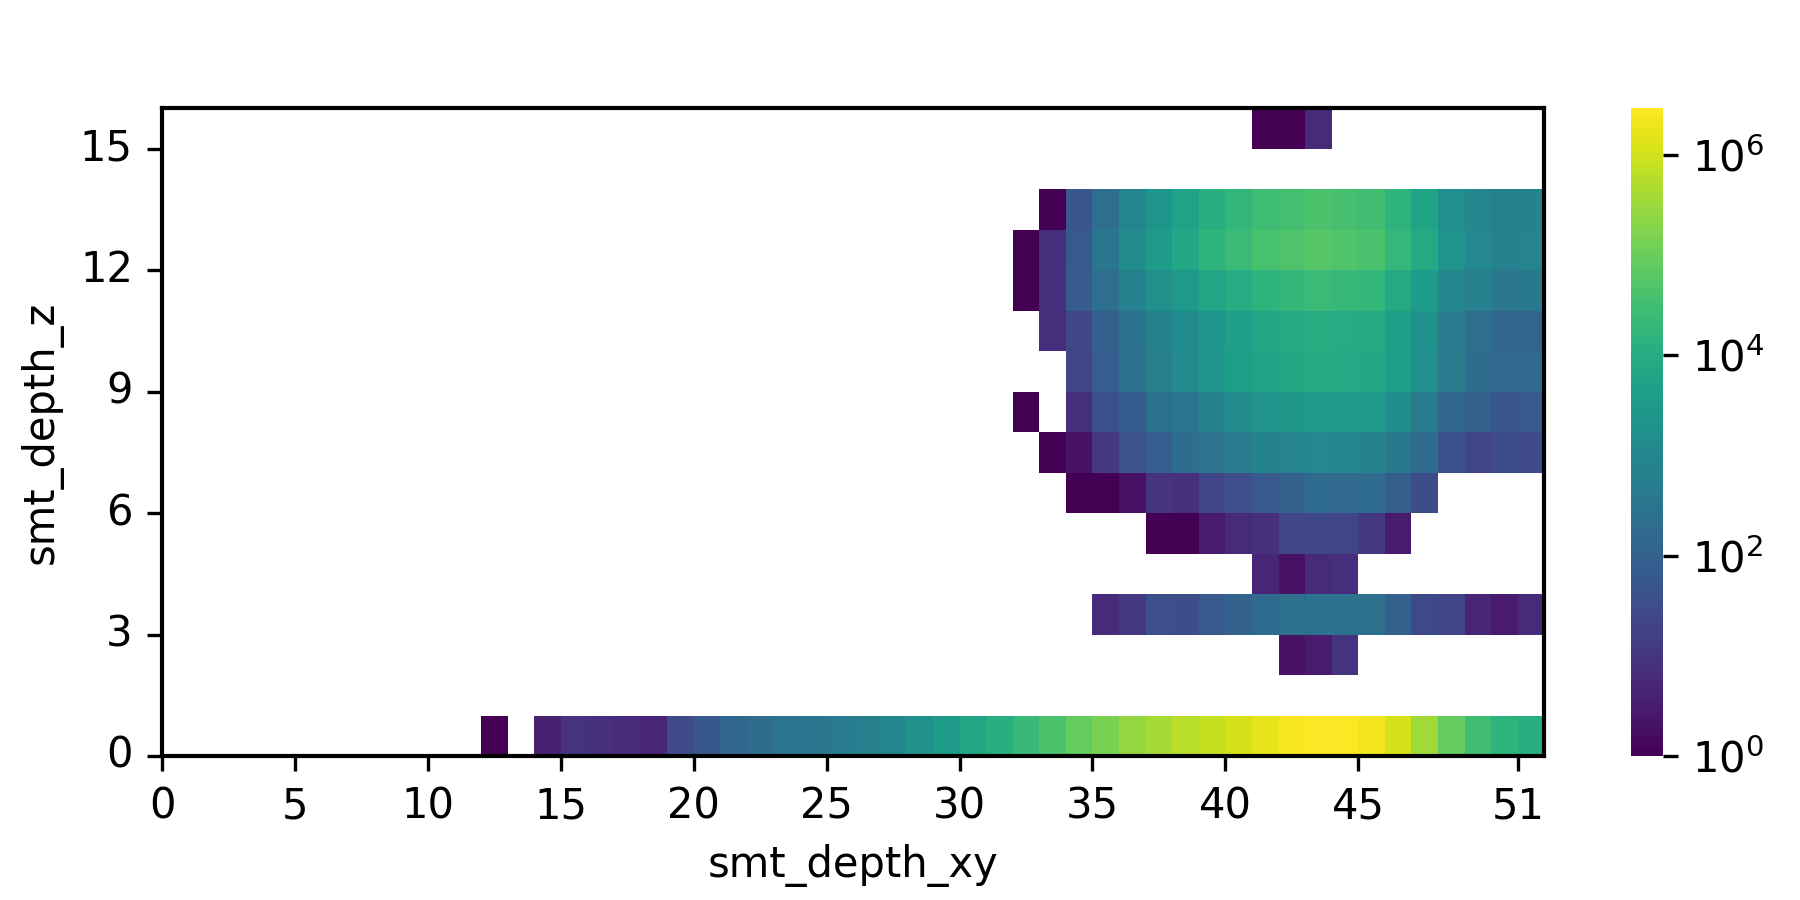
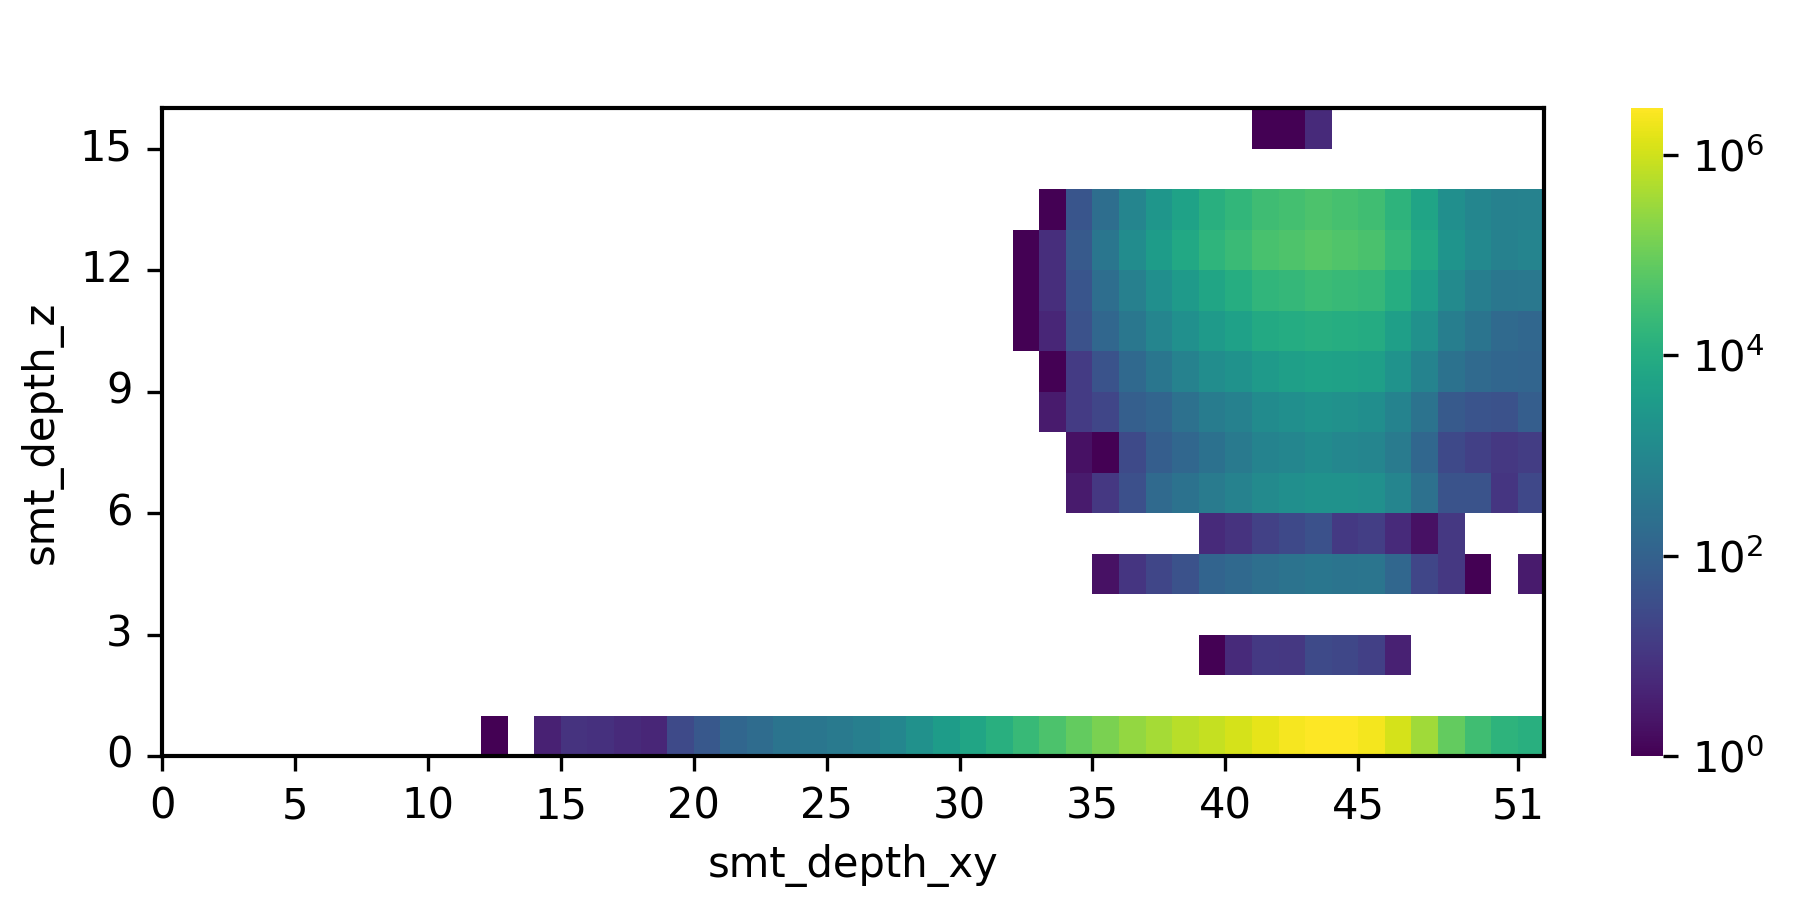
add altitude distribution plots

Changed region(s): [[0.56, 0.3422, 0.8711, 0.7778]]

diff --git a/cmd/db-address-exporter/db-address-exporter.go b/cmd/db-address-exporter/db-address-exporter.go
@@ -20,14 +20,15 @@ import (
 )
 
 const (
-	F_GROW                   = 0.1
-	CERTIFICATE_WRITE_BUFFER = 1000
-	NODE_WRITE_BUFFER        = 1000
-	SAMPLE_WRITE_BUFFER      = 1000
-	MAX_FILE_SIZE            = 300 * 1000 * 1000 // 300 MB
-	MAX_CERTIFICATE_SIZE     = 3091              // ≈ 3kB
-	INSERT_INTO_NODES_STR    = "INSERT INTO nodes(bit_string_51,bit_string_15,xy_left_child_hash,xy_right_child_hash,z_left_child_hash,z_right_child_hash,certificate_hashes) VALUES\n"
-	INSERT_INTO_CERTS_STR    = "INSERT INTO certificates(certificate_hash,certificate,not_valid_after) VALUES\n"
+	F_GROW                             = 0.1
+	CERTIFICATE_WRITE_BUFFER           = 1000
+	NODE_WRITE_BUFFER                  = 1000
+	SAMPLE_WRITE_BUFFER                = 1000
+	ALTITUDE_DISTRIBUTION_WRITE_BUFFER = 1000
+	MAX_FILE_SIZE                      = 300 * 1000 * 1000 // 300 MB
+	MAX_CERTIFICATE_SIZE               = 3091              // ≈ 3kB
+	INSERT_INTO_NODES_STR              = "INSERT INTO nodes(bit_string_51,bit_string_15,xy_left_child_hash,xy_right_child_hash,z_left_child_hash,z_right_child_hash,certificate_hashes) VALUES\n"
+	INSERT_INTO_CERTS_STR              = "INSERT INTO certificates(certificate_hash,certificate,not_valid_after) VALUES\n"
 )
 
 type Coordinate struct {
@@ -547,16 +548,58 @@ func sampleWriter(
 	done <- true
 }
 
+func surfaceAltitudeWriter(
+	fileName string,
+	surfaceAltitudes chan *float64,
+	done chan bool,
+) {
+	file, err := os.Create(fileName)
+	if err != nil {
+		log.Fatalf("failed opening file %s: %v", fileName, err)
+	}
+
+	_, err = file.Write(
+		[]byte("altitude\n"),
+	)
+	if err != nil {
+		log.Fatalf("failed writing header to %s: %v", fileName, err)
+	}
+
+	for surfaceAltitude := range surfaceAltitudes {
+		// write certificate row
+		_, err := file.Write(
+			[]byte(
+				fmt.Sprintf(
+					"%f\n",
+					*surfaceAltitude,
+				),
+			),
+		)
+		if err != nil {
+			log.Fatalf("failed writing to file %s: %v", fileName, err)
+		}
+	}
+
+	err = file.Close()
+	if err != nil {
+		log.Fatalf("failed closing file %s: %v", fileName, err)
+	}
+
+	done <- true
+}
+
 func main() {
 	var inputPath string
 	var nodesOutputPath string
 	var certificatesOutputPath string
 	var sampleOutputPath string
+	var surfaceAltitudeOutputPath string
 
 	flag.StringVar(&inputPath, "input", "", "The path to the input .parquet file")
 	flag.StringVar(&nodesOutputPath, "nodes", "", "The path to the nodes output directory")
 	flag.StringVar(&certificatesOutputPath, "certs", "", "The path to certificates output directory")
 	flag.StringVar(&sampleOutputPath, "sampling-map", "", "The path to the sampling-map file")
+	flag.StringVar(&surfaceAltitudeOutputPath, "altitude-dist", "", "The path to the altitude distribution file")
 	flag.Parse()
 
 	if inputPath == "" {
@@ -573,6 +616,10 @@ func main() {
 
 	if sampleOutputPath == "" {
 		log.Fatalf("'sample-map' flag must be set")
+	}
+
+	if surfaceAltitudeOutputPath == "" {
+		log.Fatalf("'altitude-dist' flag must be set")
 	}
 
 	fileReader, err := local.NewLocalFileReader(inputPath)
@@ -609,6 +656,16 @@ func main() {
 		samplesFinishedWriting,
 	)
 
+	// setup channels for concurrently writing the surface altitude distribution to disk
+	altitudes := make(chan *float64, ALTITUDE_DISTRIBUTION_WRITE_BUFFER)
+	altitudeFinishedWriting := make(chan bool)
+	// start writer routine
+	go surfaceAltitudeWriter(
+		surfaceAltitudeOutputPath,
+		altitudes,
+		altitudeFinishedWriting,
+	)
+
 	bitstringPairToNode := make(map[bitstring.RawBitStringPair]*crypto.Node)
 
 	for i := 0; i < num; i++ {
@@ -635,6 +692,10 @@ func main() {
 		// get some coordinate of the mulitpolygon
 		coordinate := (*(*(*r.List_of_multipolygons)[0])[0])[0]
 		samples <- coordinate
+
+		if r.Surface_altitude_aster_30 != nil {
+			altitudes <- r.Surface_altitude_aster_30
+		}
 
 		bitstringPairs, err := geometry.CertificateToBitStrings(certificate, F_GROW)
 		if err != nil {
@@ -709,8 +770,9 @@ func main() {
 		progressBar.Add(1)
 	}
 	// tell writers that they have all data
-	close(samples)
 	close(certificates)
+	close(samples)
+	close(altitudes)
 	progressBar.Exit()
 
 	// compute child hashes
@@ -781,6 +843,10 @@ func main() {
 
 	fmt.Printf("Waiting until all samples are written to disk..\n")
 	<-samplesFinishedWriting
+	fmt.Printf("Done!\n")
+
+	fmt.Printf("Waiting until all altitude values are written to disk..\n")
+	<-altitudeFinishedWriting
 	fmt.Printf("Done!\n")
 
 	fmt.Printf("Waiting until all certificates are written to disk..\n")

diff --git a/database/measurements/plot.py b/database/measurements/plot.py
@@ -84,7 +84,7 @@ df.sort_values(
 )
 
 
-def cdf(column):
+def get_stats_df(column):
     # https://stackoverflow.com/a/54317197
     s = pd.Series(column.values, name='value')
 
@@ -99,7 +99,12 @@ def cdf(column):
     # CDF
     stats_df['cdf'] = stats_df['pdf'].cumsum()
     stats_df = stats_df.reset_index()
-    cdf = stats_df['cdf'].values
+
+    return stats_df
+
+
+def plot_cdf(column, quantile=True):
+    stats_df = get_stats_df(column)
 
     p = plt.plot(
         stats_df['value'],
@@ -107,29 +112,42 @@ def cdf(column):
     )
     color = p[0].get_color()
 
-    ninety_five_row = stats_df[stats_df['cdf'] >= 0.95].iloc[0]
-    ninety_five_p = ninety_five_row['cdf']
-    ninety_five = ninety_five_row['value']
+    if quantile:
 
-    plt.scatter(
-        [ninety_five],
-        [ninety_five_p],
-        marker="o",
-        facecolors='none',
-        edgecolors=color
+        ninety_five_row = stats_df[stats_df['cdf'] >= 0.95].iloc[0]
+        ninety_five_p = ninety_five_row['cdf']
+        ninety_five = ninety_five_row['value']
+
+        plt.scatter(
+            [ninety_five],
+            [ninety_five_p],
+            marker="o",
+            facecolors='none',
+            edgecolors=color
+        )
+
+        plt.text(
+            ninety_five * 0.98,
+            0.85,
+            # f'({ninety_five}, {ninety_five_p.round(2)})',
+            f'{int(ninety_five) if ninety_five.is_integer() else ninety_five.round(4)}',
+            rotation=0,
+            color=color
+        )
+
+
+def plot_pdf(column):
+    stats_df = get_stats_df(column)
+
+    p = plt.scatter(
+        stats_df['value'],
+        stats_df['pdf'],
+        s=1,
+        marker="x",
     )
 
-    plt.text(
-        ninety_five * 0.98,
-        0.85,
-        # f'({ninety_five}, {ninety_five_p.round(2)})',
-        f'{int(ninety_five) if ninety_five.is_integer() else ninety_five.round(4)}',
-        rotation=0,
-        color=color
-    )
 
-
-cdf(df['smt_depth'])
+plot_cdf(df['smt_depth'])
 plt.savefig(f"{CURRENT_DIR}/depth.png")
 plt.close()
 
@@ -195,4 +213,49 @@ for _, spine in ax.spines.items():
 
 
 plt.savefig(f"{CURRENT_DIR}/leaves.png")
+plt.close()
+
+
+df = pd.read_csv(os.path.join(CURRENT_DIR, "altitude.csv"))
+
+df['altitude'] = df['altitude']
+df['altitude'] = df['altitude'].round(0).astype(int)
+
+fig, ax = plt.subplots(figsize=(6, 3), dpi=300)
+fig.subplots_adjust(bottom=0.16, left=0.06, right=0.99)
+
+plot_cdf(df['altitude'], quantile=False)
+
+ylimits = ax.get_ylim()
+
+ax.vlines(
+    x=[264],
+    ymin=ylimits[0],
+    ymax=ylimits[1],
+    color='tab:blue',
+    linestyle='dotted',
+    linewidth=1
+)
+
+plt.savefig(f"{CURRENT_DIR}/altitude-cdf.png")
+plt.close()
+
+fig, ax = plt.subplots(figsize=(6, 3), dpi=300)
+fig.subplots_adjust(bottom=0.16, left=0.1, right=0.99)
+# ax.set_xscale("log")
+
+plot_pdf(df['altitude'])
+
+ylimits = ax.get_ylim()
+
+ax.vlines(
+    x=[264],
+    ymin=ylimits[0],
+    ymax=ylimits[1],
+    color='tab:blue',
+    linestyle='dotted',
+    linewidth=1
+)
+
+plt.savefig(f"{CURRENT_DIR}/altitude-pdf.png")
 plt.close()
